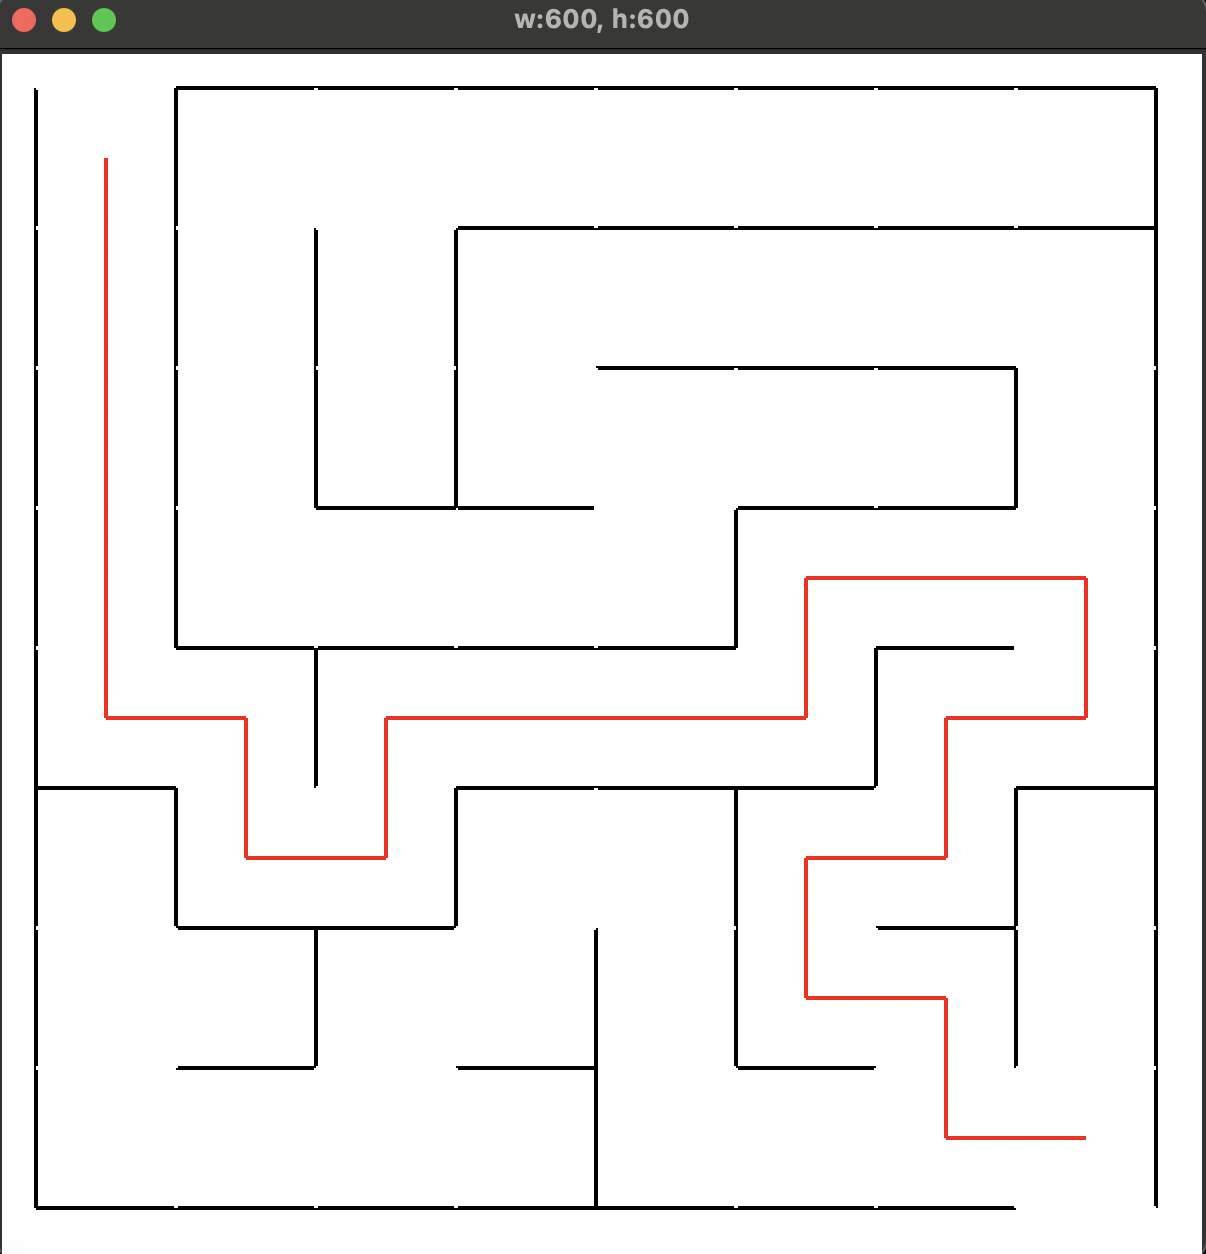
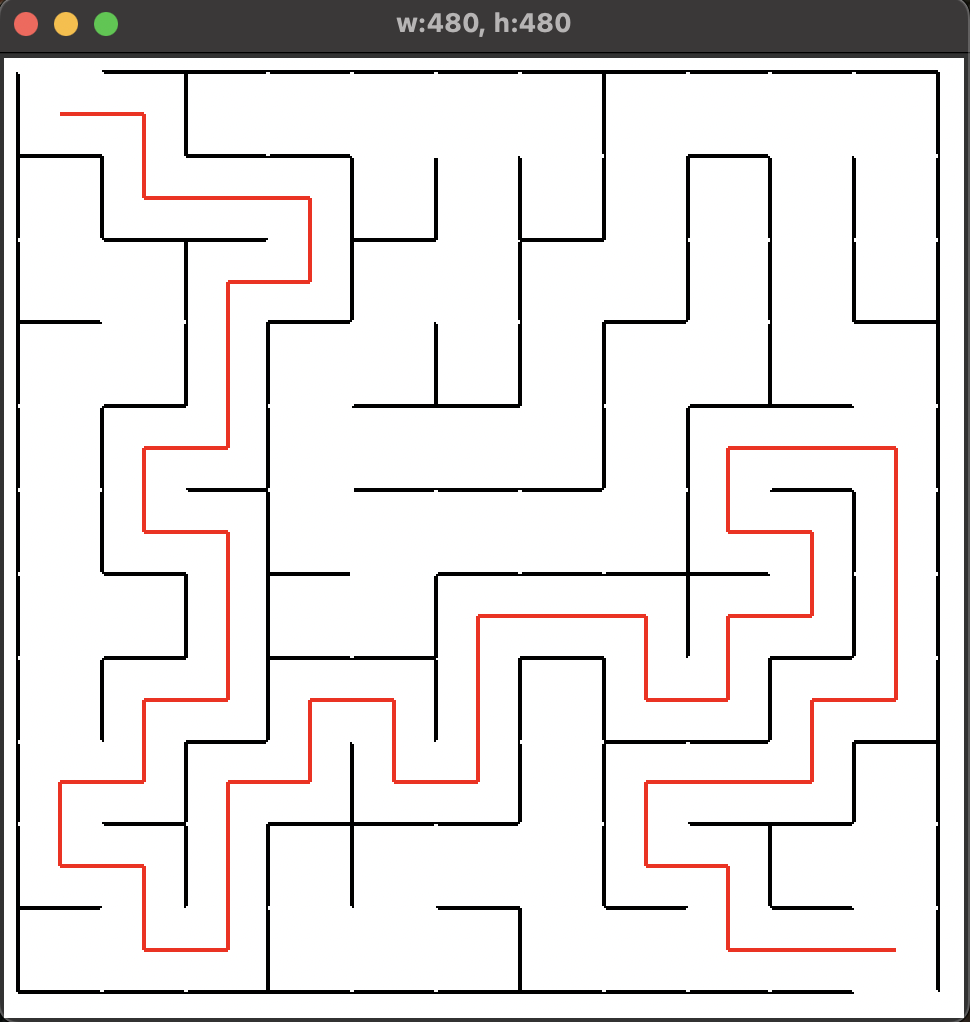
changed resolution

Changed region(s): [[0.0, 0.0, 1.0, 1.0]]

diff --git a/main.py b/main.py
@@ -2,11 +2,11 @@ from graphics import Window, Maze
 
 
 def main():
-    num_rows = 10
-    num_cols = 10
-    margin = 20
-    screen_x = 800
-    screen_y = 600
+    num_rows = 11
+    num_cols = 11
+    margin = 10
+    screen_x = 480
+    screen_y = 480
     cell_size_x = (screen_x - 2 * margin) / num_cols
     cell_size_y = (screen_y - 2 * margin) / num_rows
     win = Window(screen_x, screen_y)
